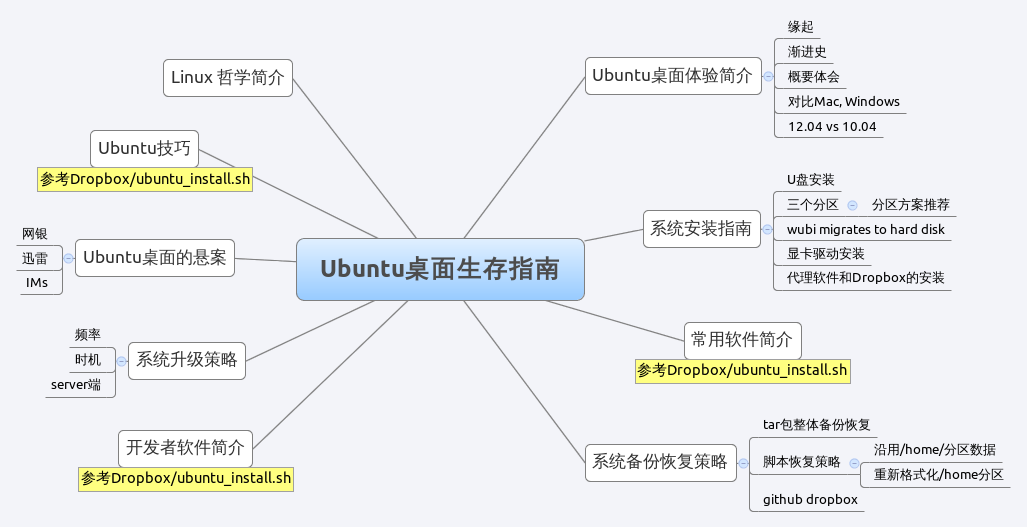
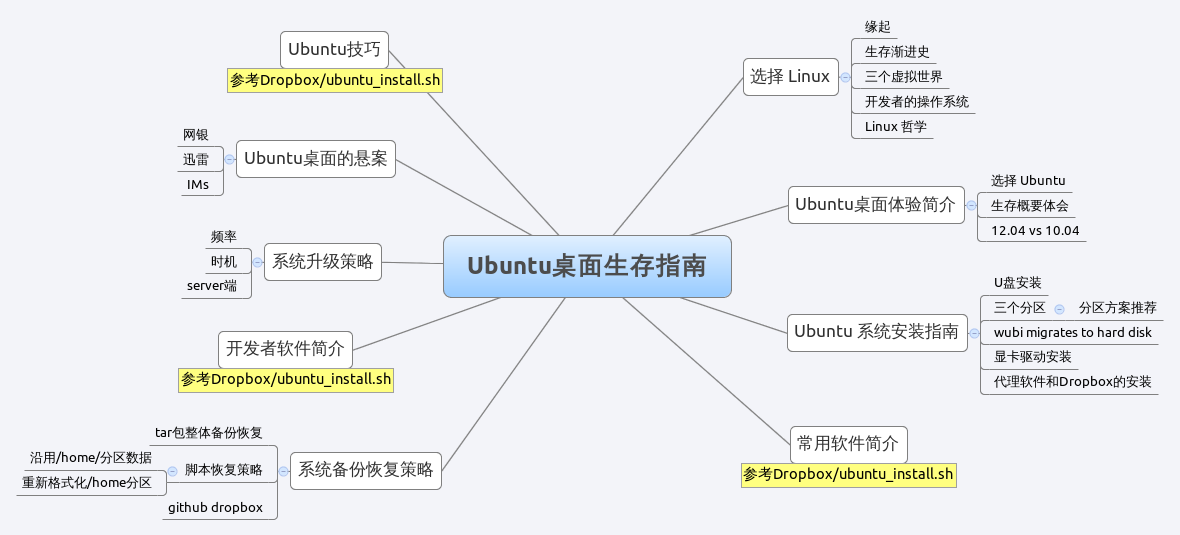
Site updated at 2012-10-21 14:37:25 UTC

diff --git a/blog/2012/10/21/ubuntu-living-handbook/index.html b/blog/2012/10/21/ubuntu-living-handbook/index.html
@@ -18,7 +18,7 @@
   <meta name="viewport" content="width=device-width, initial-scale=1">
 
   
-  <link rel="canonical" href="http://ghosertBlog.github.com/blog/2012/10/14/ubuntu-living-handbook/">
+  <link rel="canonical" href="http://ghosertBlog.github.com/blog/2012/10/21/ubuntu-living-handbook/">
   <link href="/favicon.png" rel="icon">
   <link href="/stylesheets/screen.css" media="screen, projection" rel="stylesheet" type="text/css">
   <script src="/javascripts/modernizr-2.0.js"></script>
@@ -95,7 +95,7 @@
   
 
 
-<time datetime="2012-10-14T22:49:00+08:00" pubdate data-updated="true">Oct 14<span>th</span>, 2012</time>
+<time datetime="2012-10-21T22:49:00+08:00" pubdate data-updated="true">Oct 21<span>st</span>, 2012</time>
         
       </p>
     
@@ -138,15 +138,34 @@
 <p> 这是一个吓坏了封闭和专利系统制作者的决定。因为那些闭源厂商依靠贩卖专利和二进制文件获利，公布自己的代码，并且连带修改和发行权利也一并不要了，这在闭源厂商是不能想象的。相反在开源系统中，开发者求知的愿望被充分尊重了，他们可以任意阅读自己感兴趣的代码，获取知识，修补臭虫，甚至参与开源项目，结识更多其它有求知欲的极客，从而提高自己的开发水平。在闭源系统中，开发者只能依赖厂商提供的 API，文档以及定期的补丁包&#8211;这些同样是普罗大众不那么关心但是开发者所不能接受的。因此使用开源系统无疑可以增强的技能水准，并且在使用系统的同时有机会改进和修补自己的系统。</p></li>
 <li><p>他们更懂开发者</p>
 
-<p> 从诞生之初起，这就是一个极客玩出来的操作系统。与其说他们是在开发操作系统不如说他们是在满足开发者自己的需求，这就是著名的“吃狗食“理论，需要一个开发者系统：1. 动手做一个 -> 2. 生存在其中 -> 3. 体会优劣 -> 4. 修补不足，增进优势使它更适合开发 -> 循环至 1. 生存在其中。所以这个系统会越来越朝着它的方向发展，那就取悦开发者自己。经过大约二十多年的发展，今天的开发者系统已经积累了无数提升开发生产力的哲学，理念和工具软件。几乎你能想到的和未能想到的一切和开发相关的需求都已经在开发者系统上被满足了，你需要做的就是学习，练习和使用。即便这仍然不能满足你，开发者系统上很容易对已有的存在做一个分支然后进行自我满足的工作。某些时候没人比你自己更懂自己，更多的时候他们比你更懂你自己，使用开发者系统的开发者时常就会想到要是有这么一个功能就好了，然后 Google 一下相关资料，接着自言自语 “哦。。。果然已经有了”。物以类聚，人以群分，如果我们的行为方式和思维模式相近，那么先前的开发者早就遇到过相同的困扰并且动手解决了问题。你仍然只需要学习，练习和使用，仅此而已。他们懂得键盘比起鼠标在大多数开发场合更高效，他们懂得软件界面首先需要的是命令行，其次才是图形化界面，他们懂得命令优于导航的哲学，你需要编辑器/编译器，他们提供了伟大的 Vim，Emacs/gcc, g++，你需要好用的脚本语言，他们内置了Bash Shell/Python，你需要更高效的操作电脑，他们提供了无数的实用命令行程序，幷为几乎每一个程序配置了无数参数来满足你的需要，很多人连这都会抱怨，为什么没有像样的 GUI 版本，为什么没有像 VB 那样可拖拉的 IDE？ 可是我们幷没有开发这些程序，其实我们没有资格抱怨什么，如果我们需要的幷不存在于开发者系统，那么停止抱怨，仔细思考，更大的可能是不存在意味着不需要，意味着存在会拖累生产力，违背开发者系统的哲学。很多的误解来自长期使用普罗大众系统，我们是被惯坏的一代，普罗大众系统假定用户依靠鼠标和直觉去操作系统，他们依靠尽量压缩用户的学习成本去博得方便使用的好名声，很多系统在这方面确实做得很好，很多人不需要阅读使用手册就可以使用软件和操作系统。这同样也是普罗大众系统经过几十年“吃狗食”得到的回报。但是仔细想想这是开发者需要的系统吗？普罗大众和开发者站在两个各自的立场，有各自的需求。如果开发者觉得普罗大众系统很好用，这现象本身就很值得探讨，肯定有地方出错了不是吗？</p>
+<p> 从诞生之初起，这就是一个极客玩出来的操作系统。与其说他们是在开发操作系统不如说他们是在满足开发者自己的需求，这就是著名的“吃狗食“理论，需要一个开发者系统：1. 动手做一个 -> 2. 生存在其中 -> 3. 体会优劣 -> 4. 修补不足，增进优势使它更适合开发 -> 循环至 1. 生存在其中。所以这个系统会越来越朝着它的方向发展，那就取悦开发者自己。经过大约二十多年的发展，今天的开发者系统已经积累了无数提升开发生产力的哲学，理念和工具软件。几乎你能想到的和未能想到的一切和开发相关的需求都已经在开发者系统上被满足了，你需要做的就是学习，练习和使用。即便这仍然不能满足你，开发者系统上很容易对已有的存在做一个分支然后进行自我满足的工作。某些时候没人比你自己更懂自己，更多的时候他们比你更懂你自己，使用开发者系统的开发者时常就会想到要是有这么一个功能就好了，然后 Google 一下相关资料，接着自言自语 “哦。。。果然已经有了”。物以类聚，人以群分，如果我们的行为方式和思维模式相近，那么先前的开发者早就遇到过相同的困扰并且动手解决了问题。你仍然只需要学习，练习和使用，仅此而已。他们懂得键盘比起鼠标在大多数开发场合更高效，他们懂得软件界面首先需要的是命令行，其次才是图形化界面，他们懂得命令优于导航的哲学，你需要编辑器/编译器，他们提供了伟大的 Vim，Emacs/gcc, g++，你需要好用的脚本语言，他们内置了Bash Shell/Python，你需要更高效的操作电脑，他们提供了无数的实用命令行程序，幷为几乎每一个程序配置了无数参数来满足你的需要，一旦我们理解他们这么做的初衷，剩下的还是学习，练习和使用。</p></li>
+<li><p>我们更懂自己自己吗？</p>
 
-<p> 何况这是一个开发者友好的系统，那么为什么还是有许多开发者并不适应？其实我们忘记了一个最简单的道理，技能是需要习得的。开发者不能按普罗大众的要求来要求自己，方便和高效其实并不是等价的，普罗大众系统的方便是依靠牺牲效率和可定制性来达成的，例如鼠标点击运行程序看起来比输入命令启动程序方便很多，但是如果你需要从上百个图标里寻找那个程序会怎么样？你又能不能启动程序的时候要求启动后最大化窗口？所以开发者系统开始不断增加命令，配置，选项和各类约定来追求效率和可定制性。而一旦我们认为效率和可定制性更重要的时候，记忆的负担，学习的成本就出现了，我们需要去学习记忆，熟练运用那些命令配置，了解约定，遵守约定。开发者需要不断的学习技能以追求更高效的使用开发者系统，这才是开发者和普罗大众的本质区别，这个世界上幷没有那么多好处全你占的事情，提升效率的前提便是增加学习成本，容忍一定程度的不那么方便。了解这个事实以后，读者自行权衡，然后我们才能说接下来的事情。</p></li>
+<p> 不幸的是很多人接受了馈赠却开始抱怨：“这么多命令，参数怎么记得住？为什么没有像样的 GUI 版本，为什么没有像 VB 那样可拖拉的 IDE？ 我需要一个开箱即用的系统，不折腾!”。实际上我们幷没有开发这些程序，其实我们没有资格抱怨什么，如果我们需要的幷不存在于开发者系统，那么停止抱怨，仔细思考，更大的可能是：不存在意味着不需要，意味着存在会拖累生产力，违背开发者系统的哲学。很多的误解来自长期使用普罗大众系统，我们是被惯坏的一代，普罗大众系统假定用户依靠鼠标和直觉去操作系统，他们依靠尽量压缩用户的学习成本去博得方便使用的好名声，很多系统在这方面确实做得很好，很多人不需要阅读使用手册就可以使用软件和操作系统。这同样也是普罗大众系统经过几十年“吃狗食”得到的回报。但是仔细想想这是开发者需要的系统吗？普罗大众和开发者站在两个各自的立场，有各自的需求。如果开发者觉得普罗大众系统很好用，这现象本身就很值得探讨，肯定有地方出错了不是吗？ 何况这是一个开发者友好的系统，那么为什么还是有许多开发者并不适应？其实我们忘记了一个最简单的道理，技能是需要习得的。开发者不能按普罗大众的要求来要求自己，方便和高效其实并不是等价的，普罗大众系统的方便是依靠牺牲效率和可定制性来达成的，例如鼠标点击运行程序看起来比输入命令启动程序方便很多，但是如果你需要从上百个图标里寻找那个程序会怎么样？你又能不能启动程序的时候要求启动后最大化窗口？所以开发者系统开始不断增加命令，配置，选项和各类约定来追求效率和可定制性。而一旦我们认为效率和可定制性更重要的时候，记忆的负担，学习的成本就出现了，我们需要去学习记忆，熟练运用那些命令配置，了解约定，遵守约定。开发者需要不断的学习技能以追求更高效的使用开发者系统，这才是开发者和普罗大众的本质区别，这个世界上幷没有那么多好处全你占的事情，提升效率的前提便是增加学习成本，容忍一定程度的不那么方便。不想折腾又想高效的使用开发者系统就和没好好学过外语又想有流利的口语一样荒诞，我们所有的技能，除了本能以外，譬如：心算，语言，记忆力，专业技能都需要反复折腾才能获得，使用开发者系统同样如此。说不折腾的人，要么是普罗大众，要么被普罗大众系统搞傻了，要么就是身心老了，折腾不动了。了解这个事实以后，读者自行权衡，然后我们才能说接下来的事情。</p></li>
 </ol>
 
 
 <h2>Linux 哲学</h2>
 
-<p>命令行与图形化</p>
+<p>为了高效的使用开发者系统，Linux 哲学中最重要的一点就是<strong>命令优于导航</strong>。略微解释一下：导航操作是指人类通过视觉定位，进而层层递进的操作方式，通常由鼠标完成。例如浏览网页，点击链接进而继续浏览点击。使用导航方式的时候，我们要么不知道自己想让计算机做什么或者计算机可以告诉我们什么，而是通过浏览方式挖掘我们可能可以让计算机做什么或者告诉我什么，要么我知道要计算机做什么但是我需要先在一堆菜单，图标里找到我需要的按钮，在告诉计算机去做之前必须例行的完成数次导航操作，例如我想卸载某个游戏，就需要从点击菜单栏开始寻找到这个游戏的程序组，点击卸载图标。</p>
+
+<p>几点原因：</p>
+
+<ol>
+<li><p>导航操作从生理上增加了使用电脑的额外负担
+仔细回顾一个最基本的问题：我们是如何使用一台计算机的？通过输入设备传达指令，计算机做出处理幷通过输出设备返回结果，这就是最基本的使用流程。无论是个人电脑，智能手机，平板都是这个流程。哪个系统更方便输入，哪个系统就更方便使用，普罗大众系统很清楚这一个基本准则，所以他们最小化了用户输入指令的成本，开发出了鼠标，触摸屏，甚至语音识辨，声控系统，光感系统。在公众视野制造了一波又一波的流行热。但是追求潮流并不解决效率的问题，如前文所述，方便幷不意味着高效。尤其对于需要大量输入的开发者系统而言更是如此。基本的鼠标操作是基于图形界面也就是导航的，我们通过鼠标传达指令，首先需要通过眼睛定位图形界面上操作对象的位置例如：一个菜单，一个按钮，其次移动鼠标定位位置，完成点击，并且往往需要重复一系列这个过程才能完成一个实际上有意义的操作，如果同时还需要大量的文本处理，那么双手还需要在鼠标和键盘之间做大量费时的切换工作。的确，每一次定位，点击，切换的代价幷没有那么的大，但是累积到一定程度，或者当你需要批处理一堆类似的任务，就相当的折磨人了。</p></li>
+<li><p>一个导致导航操作低效的原因</p></li>
+</ol>
+
+
+<p>通过这一条公理，我们演化出了以下理念，请在使用开发者系统的时候时刻牢记：</p>
+
+<ol>
+<li>命令行优于图形界面</li>
+<li>键盘优于鼠标</li>
+<li>搜索优于导航</li>
+</ol>
+
 
 <h2>选择 Ubuntu</h2>
 
@@ -185,7 +204,7 @@
   
 
 
-<time datetime="2012-10-14T22:49:00+08:00" pubdate data-updated="true">Oct 14<span>th</span>, 2012</time>
+<time datetime="2012-10-21T22:49:00+08:00" pubdate data-updated="true">Oct 21<span>st</span>, 2012</time>
       
 
 <span class="categories">
@@ -258,7 +277,7 @@ var jiathis_config={
   <ul id="recent_posts">
     
       <li class="post">
-        <a href="/blog/2012/10/14/ubuntu-living-handbook/">Ubuntu桌面生存指南 (1) --- Ubuntu桌面体验简介</a>
+        <a href="/blog/2012/10/21/ubuntu-living-handbook/">Ubuntu桌面生存指南 (1) --- Ubuntu桌面体验简介</a>
       </li>
     
       <li class="post">
@@ -303,8 +322,8 @@ var jiathis_config={
       
         
         // var disqus_developer = 1;
-        var disqus_identifier = 'http://ghosertBlog.github.com/blog/2012/10/14/ubuntu-living-handbook/';
-        var disqus_url = 'http://ghosertBlog.github.com/blog/2012/10/14/ubuntu-living-handbook/';
+        var disqus_identifier = 'http://ghosertBlog.github.com/blog/2012/10/21/ubuntu-living-handbook/';
+        var disqus_url = 'http://ghosertBlog.github.com/blog/2012/10/21/ubuntu-living-handbook/';
         var disqus_script = 'embed.js';
       
     (function () {

diff --git a/blog/archives/index.html b/blog/archives/index.html
@@ -10,7 +10,7 @@
 
   
   <meta name="description" content="Blog Archive 2012 Ubuntu桌面生存指南 (1) &#8212; Ubuntu桌面体验简介
-Oct 14 2012 posted in Ubuntu， Linux， Tools 极客的博客
+Oct 21 2012 posted in Ubuntu， Linux， Tools 极客的博客
 Apr 20 2012 posted in Geek, Octopress &hellip;">
   
 
@@ -93,8 +93,8 @@ Apr 20 2012 posted in Geek, Octopress &hellip;">
 
 <article>
   
-<h1><a href="/blog/2012/10/14/ubuntu-living-handbook/">Ubuntu桌面生存指南 (1) &#8212; Ubuntu桌面体验简介</a></h1>
-<time datetime="2012-10-14T22:49:00+08:00" pubdate><span class='month'>Oct</span> <span class='day'>14</span> <span class='year'>2012</span></time>
+<h1><a href="/blog/2012/10/21/ubuntu-living-handbook/">Ubuntu桌面生存指南 (1) &#8212; Ubuntu桌面体验简介</a></h1>
+<time datetime="2012-10-21T22:49:00+08:00" pubdate><span class='month'>Oct</span> <span class='day'>21</span> <span class='year'>2012</span></time>
 
 <footer>
   <span class="categories">posted in <a class='category' href='/blog/categories/ubuntu-linux-tools/'>Ubuntu， Linux， Tools</a></span>
@@ -131,7 +131,7 @@ Apr 20 2012 posted in Geek, Octopress &hellip;">
   <ul id="recent_posts">
     
       <li class="post">
-        <a href="/blog/2012/10/14/ubuntu-living-handbook/">Ubuntu桌面生存指南 (1) --- Ubuntu桌面体验简介</a>
+        <a href="/blog/2012/10/21/ubuntu-living-handbook/">Ubuntu桌面生存指南 (1) --- Ubuntu桌面体验简介</a>
       </li>
     
       <li class="post">

diff --git a/index.html b/index.html
@@ -82,7 +82,7 @@
       
   <header>
     
-      <h1 class="entry-title"><a href="/blog/2012/10/14/ubuntu-living-handbook/">Ubuntu桌面生存指南 (1) &#8212; Ubuntu桌面体验简介</a></h1>
+      <h1 class="entry-title"><a href="/blog/2012/10/21/ubuntu-living-handbook/">Ubuntu桌面生存指南 (1) &#8212; Ubuntu桌面体验简介</a></h1>
     
     
       <p class="meta">
@@ -98,7 +98,7 @@
   
 
 
-<time datetime="2012-10-14T22:49:00+08:00" pubdate data-updated="true">Oct 14<span>th</span>, 2012</time>
+<time datetime="2012-10-21T22:49:00+08:00" pubdate data-updated="true">Oct 21<span>st</span>, 2012</time>
         
       </p>
     
@@ -113,7 +113,7 @@
   
   
     <footer>
-      <a rel="full-article" href="/blog/2012/10/14/ubuntu-living-handbook/">阅读全文 &rarr;</a>
+      <a rel="full-article" href="/blog/2012/10/21/ubuntu-living-handbook/">阅读全文 &rarr;</a>
     </footer>
   
 
@@ -176,7 +176,7 @@
   <ul id="recent_posts">
     
       <li class="post">
-        <a href="/blog/2012/10/14/ubuntu-living-handbook/">Ubuntu桌面生存指南 (1) &#8212; Ubuntu桌面体验简介</a>
+        <a href="/blog/2012/10/21/ubuntu-living-handbook/">Ubuntu桌面生存指南 (1) &#8212; Ubuntu桌面体验简介</a>
       </li>
     
       <li class="post">

diff --git a/blog/categories/ubuntu-linux-tools/index.html b/blog/categories/ubuntu-linux-tools/index.html
@@ -91,8 +91,8 @@
 
 <article>
   
-<h1><a href="/blog/2012/10/14/ubuntu-living-handbook/">Ubuntu桌面生存指南 (1) --- Ubuntu桌面体验简介</a></h1>
-<time datetime="2012-10-14T22:49:00+08:00" pubdate><span class='month'>Oct</span> <span class='day'>14</span> <span class='year'>2012</span></time>
+<h1><a href="/blog/2012/10/21/ubuntu-living-handbook/">Ubuntu桌面生存指南 (1) --- Ubuntu桌面体验简介</a></h1>
+<time datetime="2012-10-21T22:49:00+08:00" pubdate><span class='month'>Oct</span> <span class='day'>21</span> <span class='year'>2012</span></time>
 
 <footer>
   <span class="categories">posted in <a class='category' href='/blog/categories/ubuntu-linux-tools/'>Ubuntu， Linux， Tools</a></span>
@@ -115,7 +115,7 @@
   <ul id="recent_posts">
     
       <li class="post">
-        <a href="/blog/2012/10/14/ubuntu-living-handbook/">Ubuntu桌面生存指南 (1) --- Ubuntu桌面体验简介</a>
+        <a href="/blog/2012/10/21/ubuntu-living-handbook/">Ubuntu桌面生存指南 (1) --- Ubuntu桌面体验简介</a>
       </li>
     
       <li class="post">

diff --git a/blog/2012/04/20/geeks-blog/index.html b/blog/2012/04/20/geeks-blog/index.html
@@ -255,7 +255,7 @@ var jiathis_config={
     <p class="meta">
       
       
-        <a class="basic-alignment right" href="/blog/2012/10/14/ubuntu-living-handbook/" title="Next Post: Ubuntu桌面生存指南 (1) --- Ubuntu桌面体验简介">Ubuntu桌面生存指南 (1) --- Ubuntu桌面体验简介 &raquo;</a>
+        <a class="basic-alignment right" href="/blog/2012/10/21/ubuntu-living-handbook/" title="Next Post: Ubuntu桌面生存指南 (1) --- Ubuntu桌面体验简介">Ubuntu桌面生存指南 (1) --- Ubuntu桌面体验简介 &raquo;</a>
       
     </p>
   </footer>
@@ -276,7 +276,7 @@ var jiathis_config={
   <ul id="recent_posts">
     
       <li class="post">
-        <a href="/blog/2012/10/14/ubuntu-living-handbook/">Ubuntu桌面生存指南 (1) --- Ubuntu桌面体验简介</a>
+        <a href="/blog/2012/10/21/ubuntu-living-handbook/">Ubuntu桌面生存指南 (1) --- Ubuntu桌面体验简介</a>
       </li>
     
       <li class="post">

diff --git a/blog/categories/geek/index.html b/blog/categories/geek/index.html
@@ -115,7 +115,7 @@
   <ul id="recent_posts">
     
       <li class="post">
-        <a href="/blog/2012/10/14/ubuntu-living-handbook/">Ubuntu桌面生存指南 (1) --- Ubuntu桌面体验简介</a>
+        <a href="/blog/2012/10/21/ubuntu-living-handbook/">Ubuntu桌面生存指南 (1) --- Ubuntu桌面体验简介</a>
       </li>
     
       <li class="post">

diff --git a/blog/categories/octopress/index.html b/blog/categories/octopress/index.html
@@ -115,7 +115,7 @@
   <ul id="recent_posts">
     
       <li class="post">
-        <a href="/blog/2012/10/14/ubuntu-living-handbook/">Ubuntu桌面生存指南 (1) --- Ubuntu桌面体验简介</a>
+        <a href="/blog/2012/10/21/ubuntu-living-handbook/">Ubuntu桌面生存指南 (1) --- Ubuntu桌面体验简介</a>
       </li>
     
       <li class="post">
